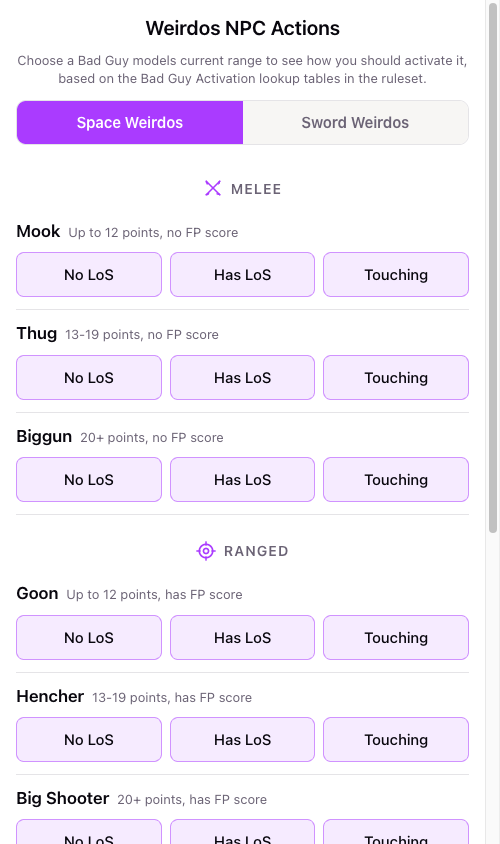
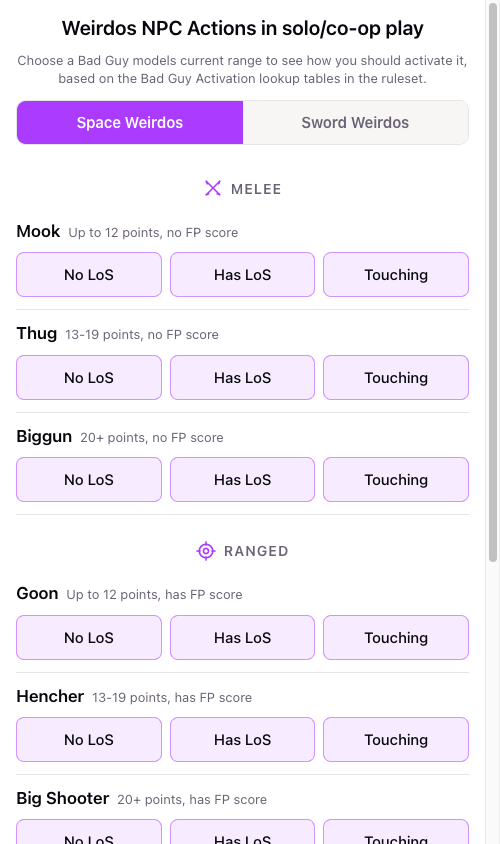
few more fixes

Changed region(s): [[0.12, 0.0, 0.84, 0.0616], [0.96, 0.6161, 1.0, 0.6777]]

diff --git a/src/App.jsx b/src/App.jsx
@@ -47,21 +47,24 @@ function App() {
     <div className="app">
       {!result && (
         <header className="app__header">
-          <h1>Weirdos NPC Actions</h1>
+          <h1>Weirdos NPC Actions in solo/co-op play</h1>
           <p className="activation-instructions">{system.activationAdvice[0]}</p>
           <SystemToggle systems={SYSTEMS} activeKey={system.key} onChange={handleSystemChange} />
         </header>
       )}
       <main className="app__main">
         {result ? (
-          <ActionResult result={result} onNext={() => setResult(null)} />
+          <ActionResult
+            result={result}
+            advice={system.activationAdvice[1]}
+            onNext={() => setResult(null)}
+          />
         ) : (
           <UnitList system={system} onRoll={handleRoll} />
         )}
       </main>
       {!result && (
         <footer className="app__footer">
-          <p className="activation-advice">{system.activationAdvice[1]}</p>
           <div className="game-credit">
             <p className="activation-advice">{system.activationAdvice[2]}</p>
             <a

diff --git a/src/App.css b/src/App.css
@@ -232,3 +232,7 @@
   font-weight: 600;
   cursor: pointer;
 }
+
+.action-result .activation-advice {
+  margin-top: 16px;
+}

diff --git a/src/components/ActionResult.jsx b/src/components/ActionResult.jsx
@@ -1,4 +1,4 @@
-export default function ActionResult({ result, onNext }) {
+export default function ActionResult({ result, advice, onNext }) {
   const { unitLabel, columnLabel, roll, action, definition } = result
 
   return (
@@ -47,6 +47,7 @@ export default function ActionResult({ result, onNext }) {
       <button type="button" className="next-unit-button" onClick={onNext}>
         Next unit
       </button>
+      {advice && <p className="activation-advice">{advice}</p>}
     </div>
   )
 }